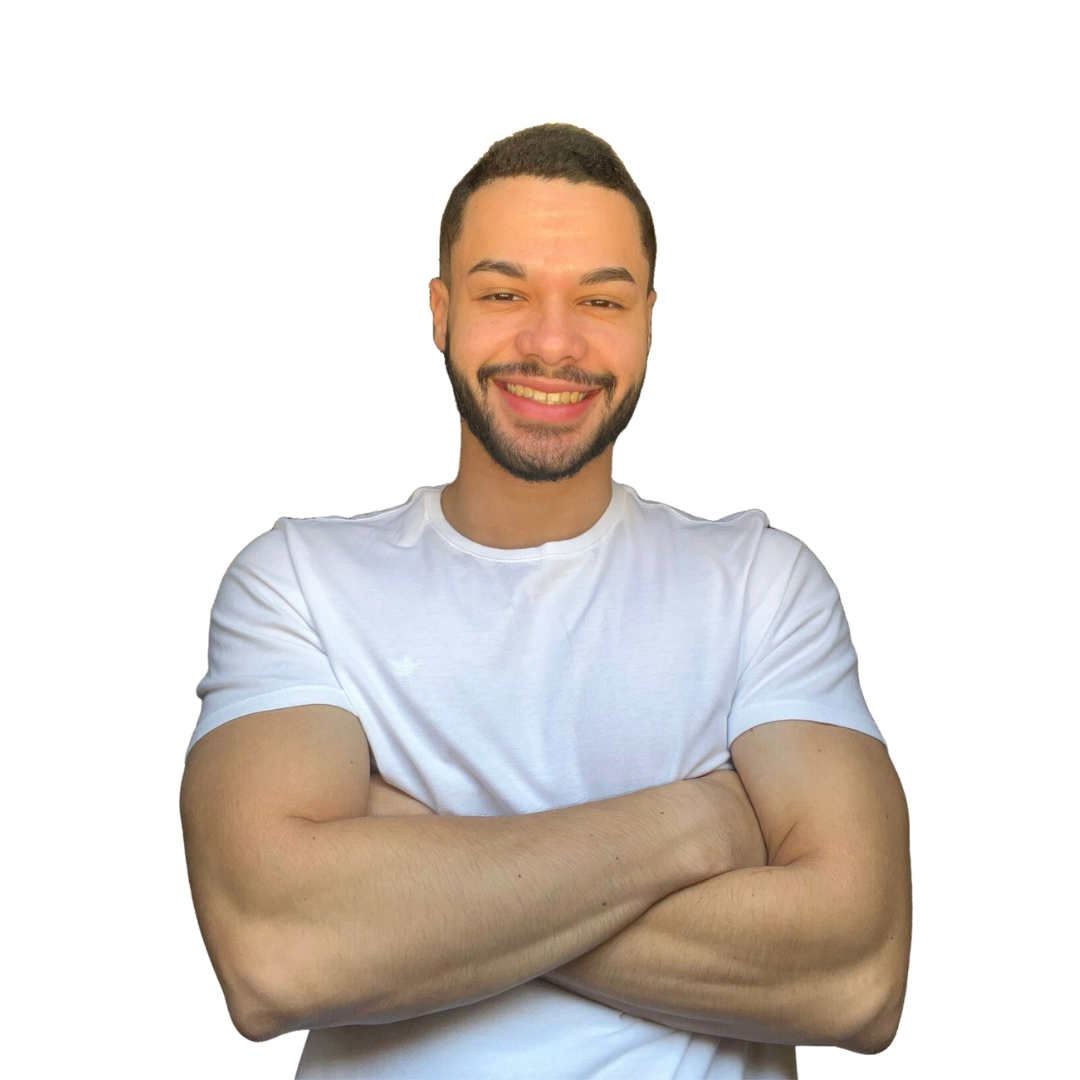
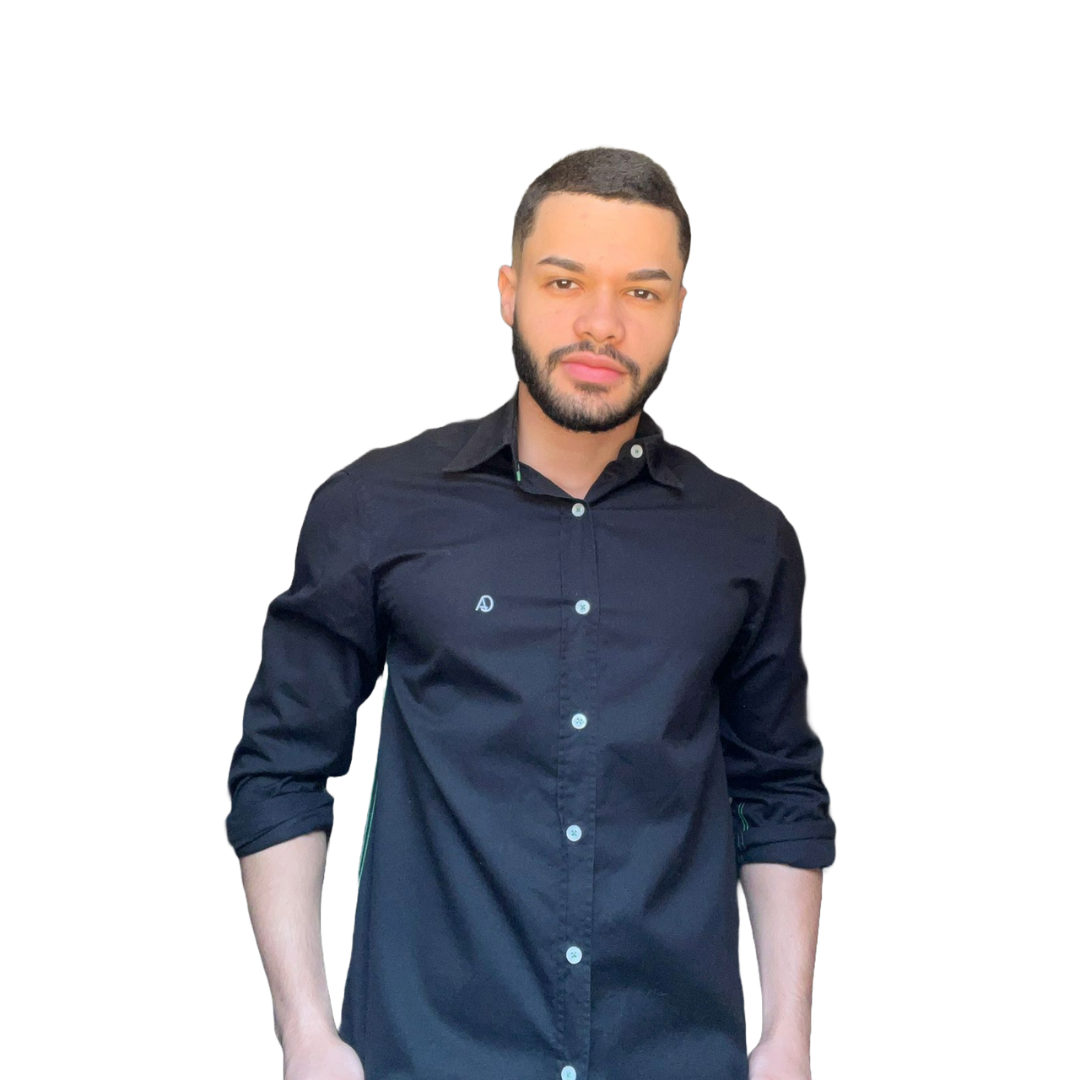
feat: update AboutSection profile picture

diff --git a/src/about/AboutSection.tsx b/src/about/AboutSection.tsx
@@ -13,10 +13,10 @@ const AboutSection = () => {
       id="about"
       className="flex justify-center items-center my-20 pt-8"
     >
-      <div className="lg:flex-row lg:w-[70%] max-w-5xl flex flex-col items-center gap-12 w-[90%]">
+      <div className="lg:flex-row lg:w-[80%] max-w-5xl flex flex-col items-center gap-12 w-[90%]">
         <img
-          src="/images/profile2.png"
-          className="w-80 h-auto border-2 border-solid border-white rounded-full"
+          src="/images/profile3.png"
+          className="w-96 h-auto border-2 border-solid border-border shadow-border shadow-lg rounded-full"
         />
         <div className="w-full flex flex-col gap-8">
           <div className="flex flex-col gap-2">
